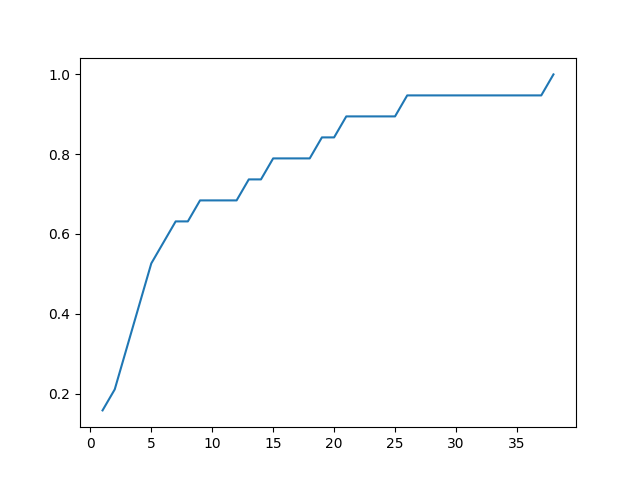
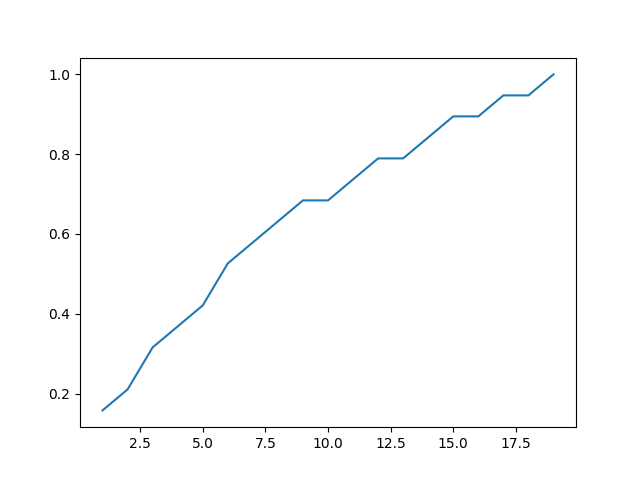
Updated

diff --git a/PartB_3.py b/PartB_3.py
@@ -121,7 +121,7 @@ def RunGA(target, population_size, tournament_pool, genes, crossover_probability
     return (best_scores, best_canditates, generations)
 
 genes = "ABCDEFGHIJKLMNOPQRSTUVWXYZÆØÅabcdefghijklmnopqrstuvwxyzæøå0123456789*_-'";
-best_scores, best_candidates, generations = RunGA("Vegard_Forde*581814", 500, 50, genes, 0.5, 0.02, 100);
+best_scores, best_candidates, generations = RunGA("Vegard_Forde*581814", 600, 50, genes, 0.5, 0.05S, 100);
 
 plt.plot(generations, best_scores);
 plt.show();
